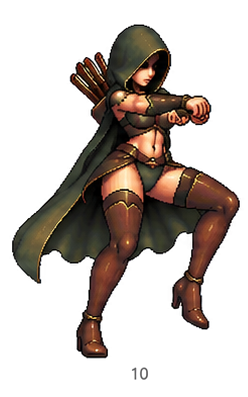
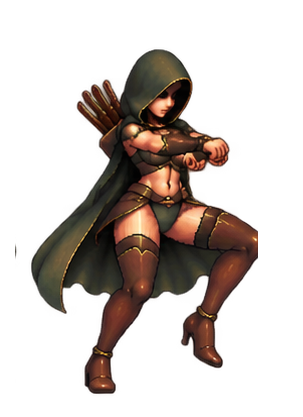
iat806-lab03-animation with background

diff --git a/projects/iat-806/lab-03/sketch.js b/projects/iat-806/lab-03/sketch.js
@@ -1,63 +1,28 @@
 console.log("nothing important here");
 
+let frames = [];
+let backgroundImage;
+
 async function setup() {
   createCanvas(500, 400);
+  backgroundImage = await loadImage("background.png");
 
-  frame1 = await loadImage("frames/deadeye_gangnam_01.png");
-  frame2 = await loadImage("frames/deadeye_gangnam_02.png");
-  frame3 = await loadImage("frames/deadeye_gangnam_03.png");
-  frame4 = await loadImage("frames/deadeye_gangnam_04.png");
-  frame5 = await loadImage("frames/deadeye_gangnam_05.png");
-  frame6 = await loadImage("frames/deadeye_gangnam_06.png");
-  frame7 = await loadImage("frames/deadeye_gangnam_07.png");
-  frame8 = await loadImage("frames/deadeye_gangnam_08.png");
-  frame9 = await loadImage("frames/deadeye_gangnam_09.png");
-  frame10 = await loadImage("frames/deadeye_gangnam_10.png");
-  frame11 = await loadImage("frames/deadeye_gangnam_11.png");
-  frame12 = await loadImage("frames/deadeye_gangnam_12.png");
-  frame13 = await loadImage("frames/deadeye_gangnam_13.png");
-  frame14 = await loadImage("frames/deadeye_gangnam_14.png");
-  frame15 = await loadImage("frames/deadeye_gangnam_15.png");
-  frame16 = await loadImage("frames/deadeye_gangnam_16.png");
+  for (let i = 1; i <= 16; i++) {
+    let number = String(i).padStart(2, "0");
+    let path = `frames/deadeye_gangnam_${number}.png`;
+    frames.push(await loadImage(path));
+  }
 }
 
 function draw() {
-  background(0);
+  background(backgroundImage);
 
   let speed = 10;
   let slowFrame = floor(frameCount / speed);
   let index = floor(slowFrame) % 16;
-  if (index === 0) {
-    image(frame1, 100, 0);
-  } else if (index === 1) {
-    image(frame2, 100, 0);
-  } else if (index === 2) {
-    image(frame3, 100, 0);
-  } else if (index === 3) {
-    image(frame4, 100, 0);
-  } else if (index === 4) {
-    image(frame5, 100, 0);
-  } else if (index === 5) {
-    image(frame6, 100, 0);
-  } else if (index === 6) {
-    image(frame7, 100, 0);
-  } else if (index === 7) {
-    image(frame8, 100, 0);
-  } else if (index === 8) {
-    image(frame9, 100, 0);
-  } else if (index === 9) {
-    image(frame10, 100, 0);
-  } else if (index === 10) {
-    image(frame11, 100, 0);
-  } else if (index === 11) {
-    image(frame12, 100, 0);
-  } else if (index === 12) {
-    image(frame13, 100, 0);
-  } else if (index === 13) {
-    image(frame14, 100, 0);
-  } else if (index === 14) {
-    image(frame15, 100, 0);
-  } else if (index === 15) {
-    image(frame16, 100, 0);
+  for (let i = 0; i < frames.length; i++) {
+    if (i === index) {
+      image(frames[i], 180, 115, 135, 210);
+    }
   }
 }
